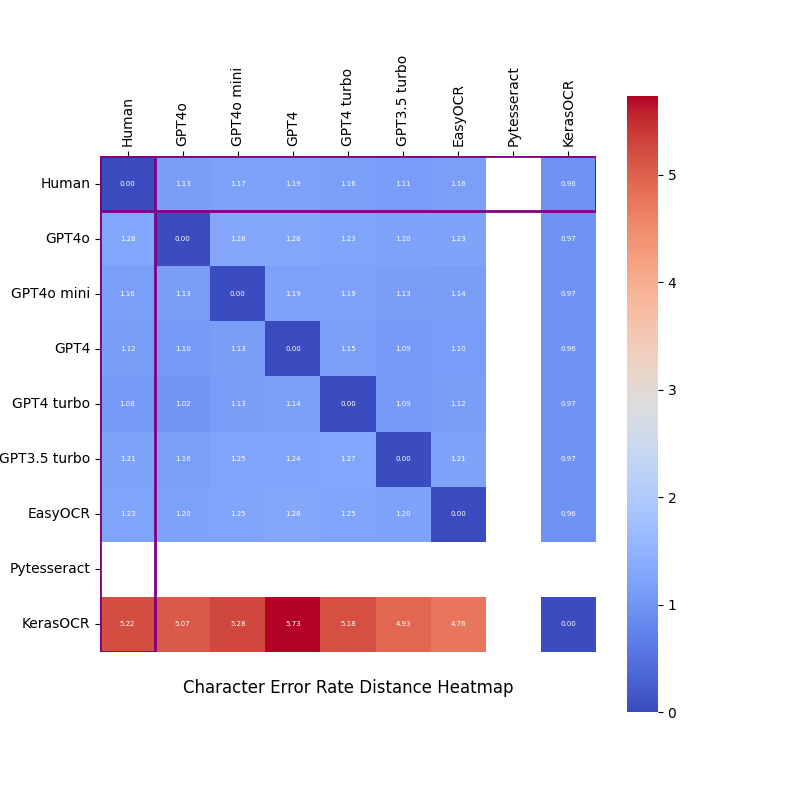
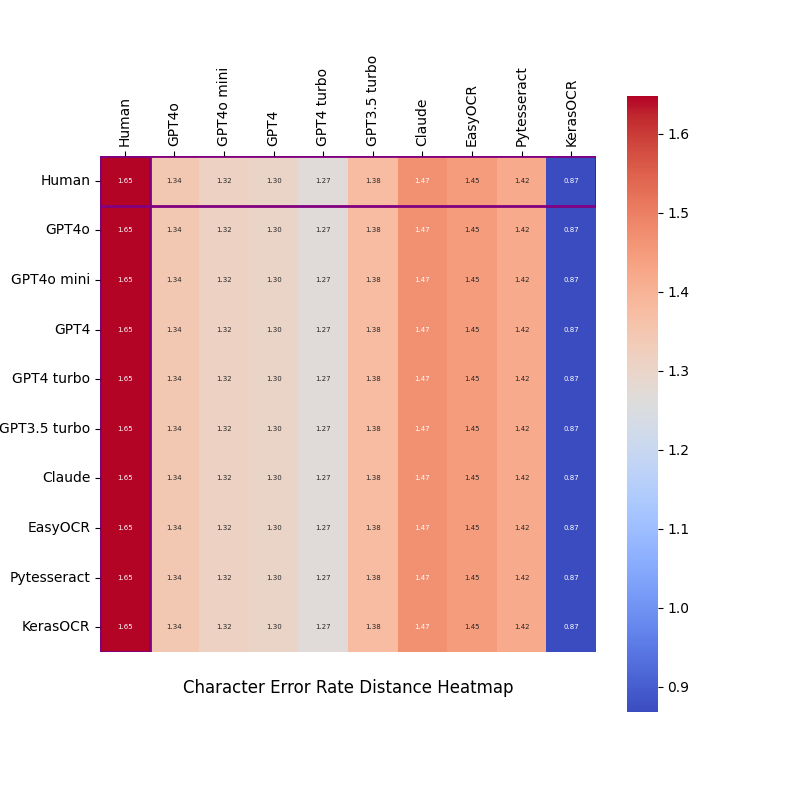
test plot and claude

diff --git a/main.py b/main.py
@@ -72,6 +72,15 @@ def askLLMAgentOneShot(image_path, trans_lst, agent):
     text1 = agent.draft(image_path)
     return text1
 
+
+
+def append_result(texts, key, result):
+    if result is not None:
+        texts[key].append(result + "\n")
+    else:
+        texts[key].append("\n")
+        print(f"Warning: {key} returned None for image_path")
+
 def evaluate():
     texts = {
         "Human": [],
@@ -97,29 +106,26 @@ def evaluate():
     
     for i in tqdm(range(len(img_lst)), ascii=' >='):
         transcription = trans_lst[i]
-        
         image_path = img_lst[i]
-        #img = Image(image_path)
-        #img.crop_image()
-        #img.color_image()
-        #output_path = image_path.replace('.jpeg', '_cc.jpeg')
-        #img.save(output_path)
 
         texts["Human"].append(transcription + "\n")
-        texts["GPT4o"].append(askLLMAgentOneShot(image_path, trans_lst, "gpt-4o") + "\n")
-        texts["GPT4o mini"].append(askLLMAgentOneShot(image_path, trans_lst, "gpt-4o-mini") + "\n")
-        texts["GPT4"].append(askLLMAgentOneShot(image_path, trans_lst, "gpt-4") + "\n")
-        texts["GPT4 turbo"].append(askLLMAgentOneShot(image_path, trans_lst , "gpt-4-turbo") + "\n")
-        texts["GPT3.5 turbo"].append(askLLMAgentOneShot(image_path, trans_lst , "gpt-3.5-turbo") + "\n")
 
-        texts["Claude"].append(askLLMAgentOneShot(image_path, trans_lst , "claude") + "\n")
-        
-        texts["EasyOCR"].append(ocr.easyOCR(image_path) + "\n")
-        texts["Pytesseract"].append(ocr.pytesseractOCR(image_path) + "\n")
-        texts["KerasOCR"].append(ocr.kerasOCR(image_path) + "\n")
+        models = ["GPT4o", "GPT4o mini", "GPT4", "GPT4 turbo", "GPT3.5 turbo", "Claude"]
+        for model in models:
+            result = askLLMAgentOneShot(image_path, trans_lst, model)
+            append_result(texts, model, result)
 
+        ocr_methods = {
+            "EasyOCR": ocr.easyOCR,
+            "Pytesseract": ocr.pytesseractOCR,
+            "KerasOCR": ocr.kerasOCR
+        }
+        for key, method in ocr_methods.items():
+            result = method(image_path)
+            append_result(texts, key, result)
 
     tools.compare_texts(texts, "all")
+
 
 
 def testCERFeedback():

diff --git a/lib/tools.py b/lib/tools.py
@@ -1,5 +1,6 @@
 import pandas as pd
 import re
+import math
 import seaborn as sns
 import matplotlib.pyplot as plt
 import matplotlib.patches as patches
@@ -173,10 +174,11 @@ class Tools:
             results_averages[name] = (jacc_avg, mas_avg, lev_avg, cer_avg)
         
         
-        df_jacc = pd.DataFrame({name: [x[0] for x in res] for name, res in results_averages.items()}, index=texts.keys())
-        df_mas = pd.DataFrame({name: [x[1] for x in res] for name, res in results_averages.items()}, index=texts.keys())
-        df_lev = pd.DataFrame({name: [x[2] for x in res] for name, res in results_averages.items()}, index=texts.keys())
-        df_cer = pd.DataFrame({name: [x[3] for x in res] for name, res in results_averages.items()}, index=texts.keys())
+        df_jacc = pd.DataFrame({name: [results_averages[name][0]] for name in results_averages.keys()}, index=texts.keys())
+        df_mas = pd.DataFrame({name: [results_averages[name][1]] for name in results_averages.keys()}, index=texts.keys())
+        df_lev = pd.DataFrame({name: [results_averages[name][2]] for name in results_averages.keys()}, index=texts.keys())
+        df_cer = pd.DataFrame({name: [results_averages[name][3]] for name in results_averages.keys()}, index=texts.keys())
+
         # Get the name of the image (without the extension)
         image_name = image_path.split('/')[-1].split('.')[0]
         # Save the dataframes to files
